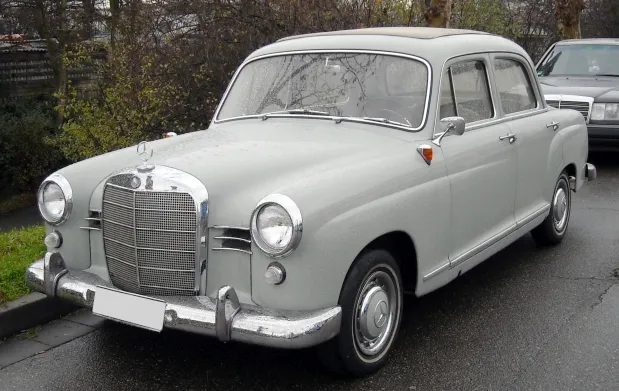
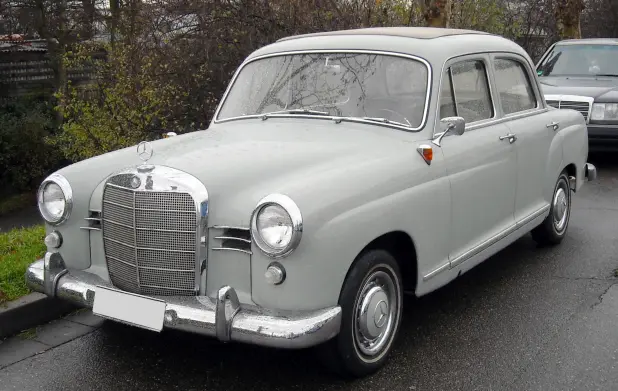
246

diff --git a/pic/ja_mb_img_e.html b/pic/ja_mb_img_e.html
@@ -378,7 +378,7 @@
 					</div>
 					<section>
 						<h4 class="displayNone">W120</h4>
-						<a href="full/e/w120_f.jpg"><img loading="lazy" src="style/e/w120_f.webp" alt="メルセデス,W120,190,フロント" width="619" height="391"></a>
+						<a href="full/e/w120_f.jpg"><img loading="lazy" src="style/e/w120_f.webp" alt="メルセデス,W120,190,フロント" width="618" height="391"></a>
 						<a href="full/e/w120_r.jpg"><img loading="lazy" src="style/e/w120_r.webp" alt="メルセデス,W120,190,リヤ" width="587" height="391"></a><br>
 						<a href="full/e/w120_d.jpg"><img loading="lazy" src="style/e/w120_d.webp" alt="メルセデス,W120,190,ダッシュボード" width="1210" height="794"></a>
 						<h5>Dimensions</h5>

diff --git a/pic/mb_img_e.html b/pic/mb_img_e.html
@@ -378,7 +378,7 @@
 					</div>
 					<section>
 						<h4 class="displayNone">W120</h4>
-						<a href="full/e/w120_f.jpg"><img loading="lazy" src="style/e/w120_f.webp" alt="Mercedes,W120,190,Frontansicht" width="619" height="391"></a>
+						<a href="full/e/w120_f.jpg"><img loading="lazy" src="style/e/w120_f.webp" alt="Mercedes,W120,190,Frontansicht" width="618" height="391"></a>
 						<a href="full/e/w120_r.jpg"><img loading="lazy" src="style/e/w120_r.webp" alt="Mercedes,W120,190,Rückansicht" width="587" height="391"></a><br>
 						<a href="full/e/w120_d.jpg"><img loading="lazy" src="style/e/w120_d.webp" alt="Mercedes,W120,190,Instrumententafel" width="1210" height="794"></a>
 						<h5>Abmessungen</h5>

diff --git a/pic/en_mb_img_e.html b/pic/en_mb_img_e.html
@@ -378,7 +378,7 @@
 					</div>
 					<section>
 						<h4 class="displayNone">W120</h4>
-						<a href="full/e/w120_f.jpg"><img loading="lazy" src="style/e/w120_f.webp" alt="Mercedes,W120,190,Front view" width="619" height="391"></a>
+						<a href="full/e/w120_f.jpg"><img loading="lazy" src="style/e/w120_f.webp" alt="Mercedes,W120,190,Front view" width="618" height="391"></a>
 						<a href="full/e/w120_r.jpg"><img loading="lazy" src="style/e/w120_r.webp" alt="Mercedes,W120,190,Rear view" width="587" height="391"></a><br>
 						<a href="full/e/w120_d.jpg"><img loading="lazy" src="style/e/w120_d.webp" alt="Mercedes,W120,190,Dashboard" width="1210" height="794"></a>
 						<h5>Dimensions</h5>
